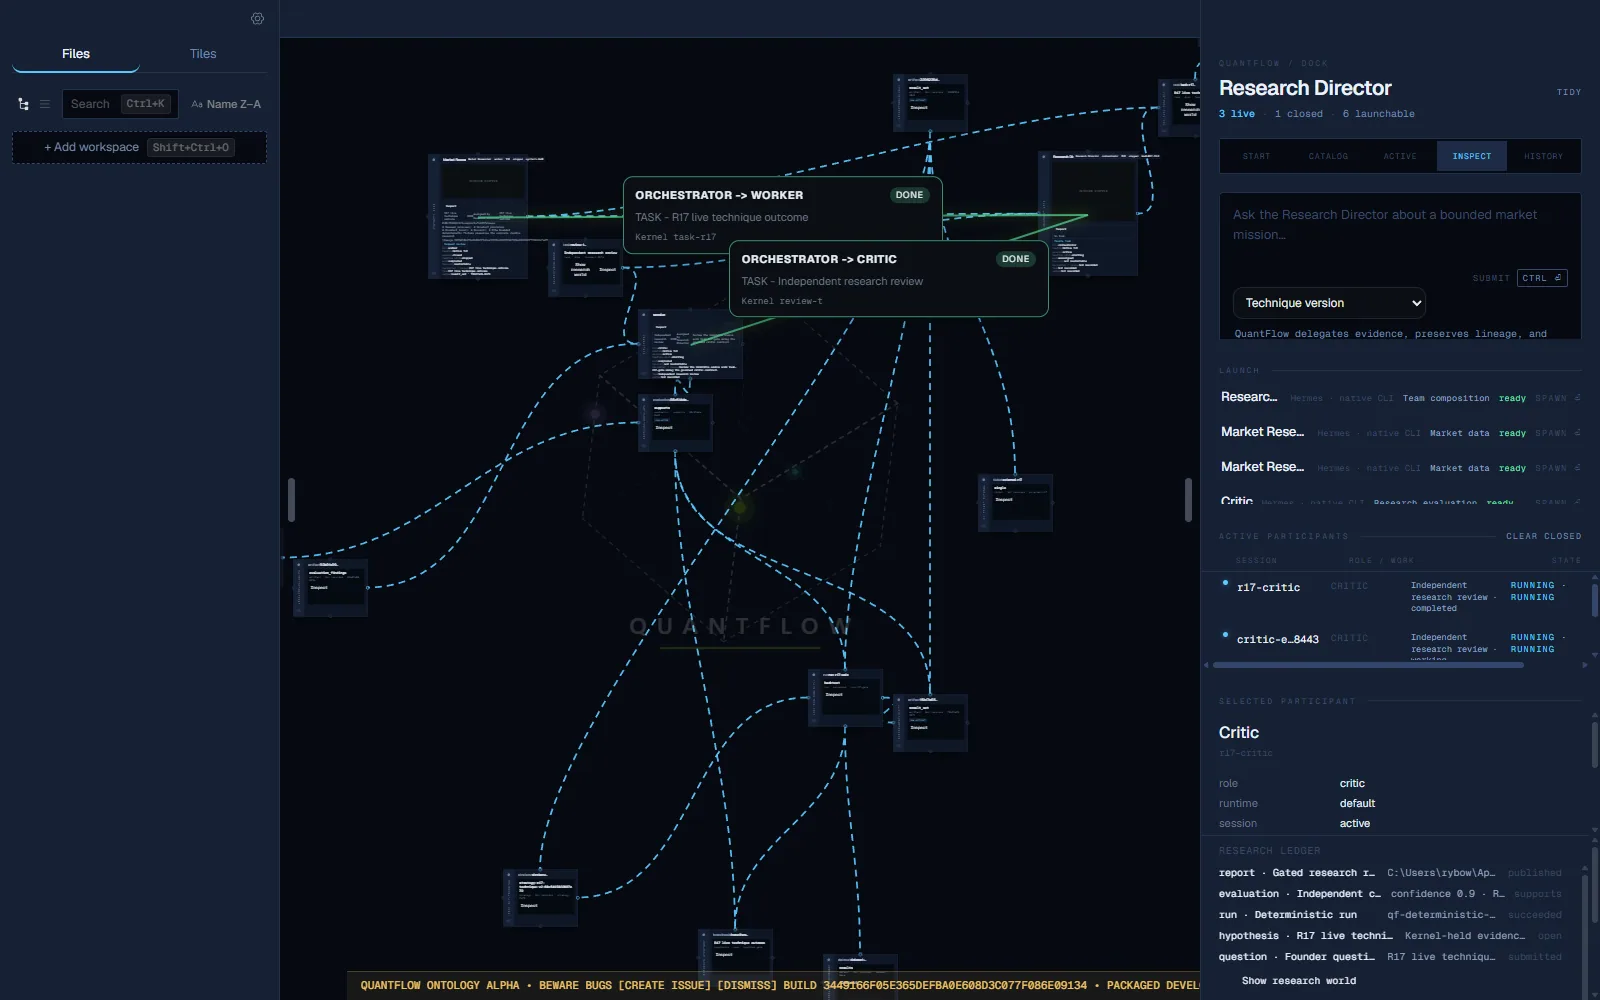
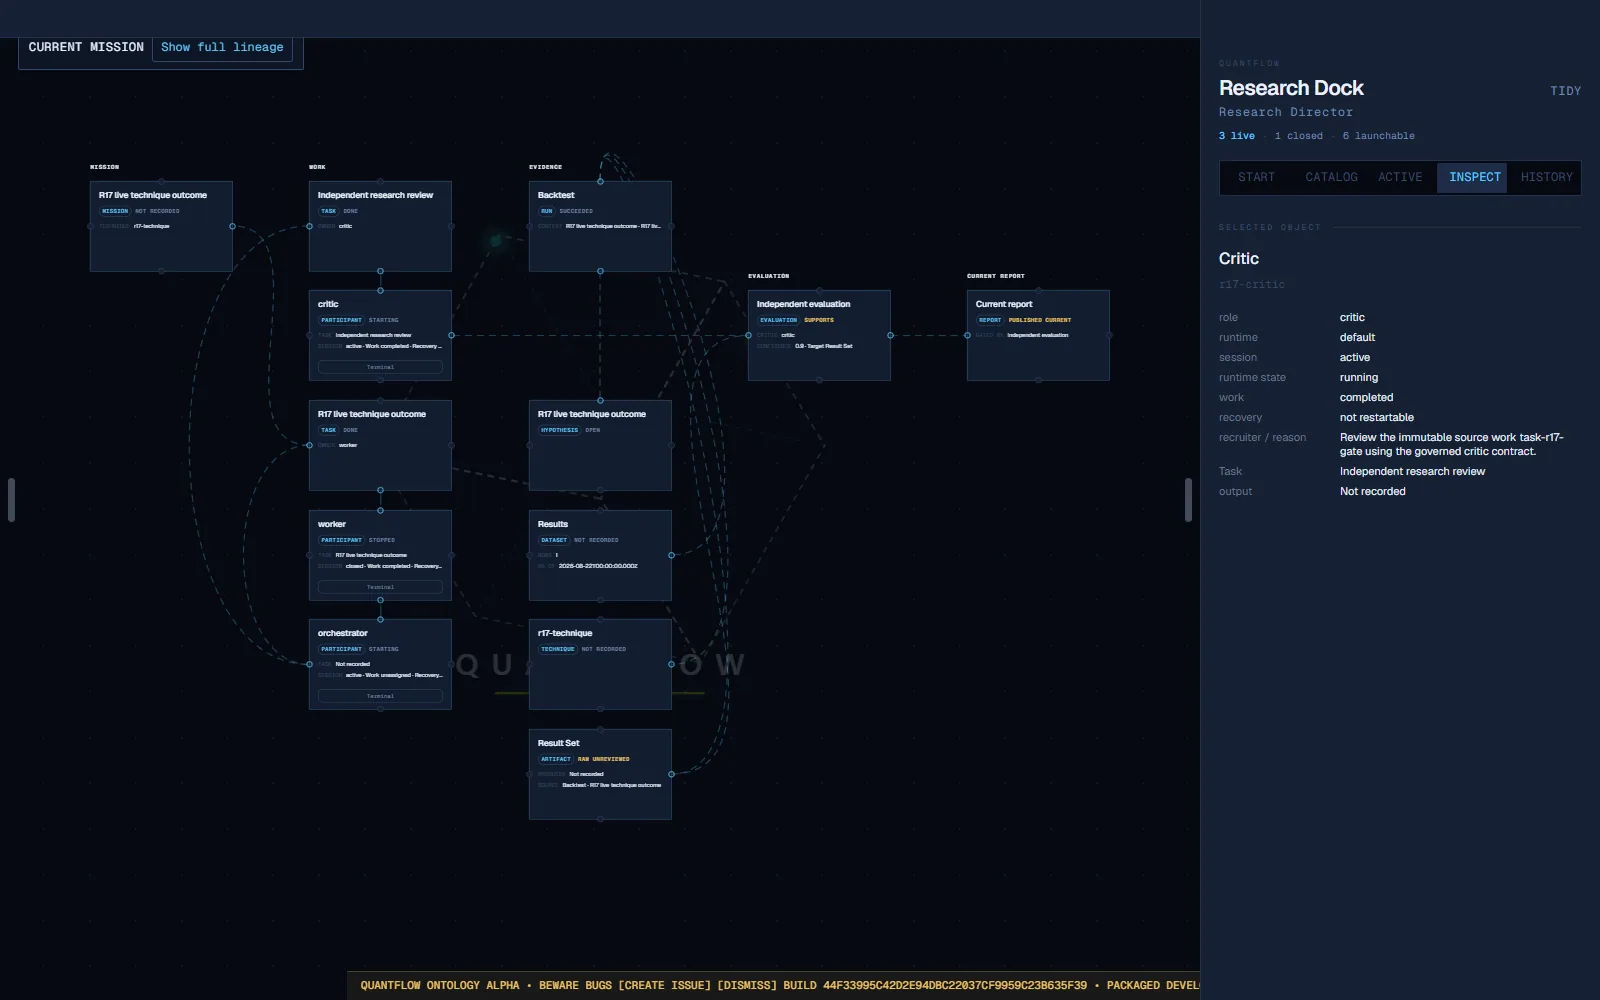
Record PRE-R18 consumer workflow evidence

diff --git a/docs/orders/evidence/pre-r18-coherence/BUILDER-EVIDENCE.md b/docs/orders/evidence/pre-r18-coherence/BUILDER-EVIDENCE.md
@@ -1,46 +1,125 @@
-# Pre-R18 Coherence — Round 3 Repair Builder Evidence
+# Pre-R18 Coherence — Final Consumer Workflow Builder Evidence
 
-## Scope and candidate identity
+## Candidate and authority
 
-This receipt records the evidence-only repair after the Round 3 verifier failure recorded in `VERIFICATION-ROUND-3.md`. The unchanged product candidate is `1a869c67f8d7c3f1bf6aec6247af2cd1ed3e87cf` on `wo-pre-r18-coherence`; the clean pre-repair receipt was `3449166f05e365defba0e608d3c077f086e09134`. No product component, ontology, layout, C01–C14 assertion or threshold, oracle, or R18 boundary was changed, and no R18 work was started. The only code change is the proof/capture sequencing in `qa/gates/pre-r18-coherence.ts`; the remaining changes are the recaptured evidence images and their manifest/receipt.
+- Branch: `wo-pre-r18-coherence`
+- Reader-approved authority/order SHA: `44f33995c42d2e94dbc22037cf9959c23b635f39`
+- Product/proof candidate: `67f9ba42affcb30fa8bc0961808ed10d8541ea6f`
+- Accepted R17 oracle remains `qa/oracles/r17-technique-outcome.json`: 16 objects and 20 exact links.
+- No Kernel schema/action/link, ontology type, inventory, Canvas engine, truth store, R18 capability, release, installer, or packaging surface changed.
 
-## Visual sequencing repair
+The candidate makes the existing current-Mission world readable without changing
+its truth. DEFAULT is a five-stage Mission → Work → Evidence → Evaluation →
+Current Report projection. LOCAL shows the exact bounded lineage and puts object
+or relationship detail in Dock INSPECT. FULL deliberately exposes all 16 objects
+and all 20 links. START and CATALOG share one launchable definition projection,
+while all five Dock modes retain one-pane paint isolation.
 
-The prior frames 12 and 13 retained the Critic participant inspector from frame 11. The repaired capture sequence now:
+## Changed files by defect
 
-1. Clicks the real START Dock tab after frame 11 and collapses any participant Canvas Inspect controls through their existing Inspect buttons. The receipt records the participant details as closed and records the Dock's actual computed paint state; it does not hide or restyle the Dock. In this product state the Dock remains visibly rendered, which is the state Ryan can reach through normal interaction.
-2. For frame 12, finds the exact result Artifact by its live `data-qf-world-type`/`data-qf-world-id`, uses the existing Canvas body mousedown/mouseup focus/raise path, pans and zooms through real Canvas wheel interactions, and opens that tile's own Inspect control.
-3. For frame 13, repeats the same real Canvas interaction for the exact Evaluation tile.
-4. Before each capture, proves actual DOM identity, nonzero computed paint rectangles, containment in the Canvas viewport, z-order and `elementsFromPoint` topmost status, visible `Collapse`/details state, and no visible participant-inspector overlap. The gate waits for the painted details state before `capturePage`.
-5. Reopens the saved world for frame 14 and captures the legible dense 16-object/20-link world after the evidence-only pan/zoom state.
+- Dock identity, START discovery, exact catalog projection, and pane isolation:
+  `index.html`, `dock.js`, `dock.test.ts`, `shell.css`.
+- Deterministic DEFAULT/LOCAL/FULL staging, human tile grammar, Dock INSPECT,
+  participant refresh, current-report authority, and restoration:
+  `research-world.js`, `research-world.test.ts`, `renderer.js`,
+  `task-composition.js`, `task-composition.test.ts`.
+- Subordinate, fit-aware cable routing and collision-aware labels:
+  `cable-overlay.js`, `shell.css`.
+- Real DOM/SVG C14 receipts and finite falsifier mutations:
+  `qa/gates/pre-r18-coherence.ts`.
+- Evidence-only files: the fourteen named WebP captures, this receipt, and
+  `SCREENSHOT-MANIFEST.md`.
 
-The live proof logged the following exact target identities and geometry:
+## Product and proof receipts
 
[1 lines of base64/hex data omitted]
-- Evaluation `86c514da-652d-4fd3-a67a-45e672106b41`: Canvas `280,0–1200,1000`; tile `595.34375,229.09375–884.650634765625,450.89569091796875`; `beforeZ=18`, `afterZ=3`, no overlap, `centerTopmost=true`, details open with `Collapse`.
-- Participant close proof recorded `dock.hidden=true`, computed `display=flex`, nonzero Dock rectangle `1201,669.59375–1600,834.796875`, and every participant Canvas details node `detailsHidden=true`. The Dock's visible paint is therefore measured and retained, not suppressed by proof code.
-
-Frames 11–14 were directly inspected after the final capture. Frame 11 shows the selected Critic participant. Frames 12 and 13 visibly show the enlarged named Artifact/Evaluation Canvas tiles with their own open `Collapse` state, while the Dock remains visible on START and does not dominate the Canvas details. Frame 14 visibly retains the dense populated world.
-
-## Verification receipt
-
-| Check | Result |
+| Command/check | Exit and result |
 |---|---|
-| Focused `task-composition.test.ts` + `research-world.test.ts` | 11 pass, 0 fail, 99 expectations |
-| `bunx tsc --noEmit` from `collab-electron` | PASS |
-| Capture-enabled live `bun qa/run.ts pre-r18-coherence` | PASS; 14/14 unique captures, 1600x1000, 982,030 bytes, 16 objects/20 links, clean roots |
-| Capture-disabled live `bun qa/run.ts pre-r18-coherence` | PASS; C01–C14, oracle 16/20, inspected 16/20, clean roots |
-| C01–C14 falsifiers | PASS as a red matrix: every named falsifier exited 1 with its expected `FALSIFY RED C##` marker |
-| Inherited `bun qa/run.ts research-world-visible` | PASS on retry; 13 oracle tiles / 15 cables, 10 pointer/Inspect/collapse checks, clean roots |
-| Required static/doc gates | PASS: repo-shape, lockfile-committed, kernel-sole-writer, no-canvas-domain-writes, kernel-sole-writer-app, doc-action-surface, one-skin, rung-ladder, doc-links |
-| `bun install --frozen-lockfile` | PASS |
-| Package-wide `bun test` | 493 pass, 42 fail, 8 errors across 535 tests; unrelated pre-existing/environmental failures, detailed below |
-| `git diff --check` | PASS |
+| `bun install --frozen-lockfile` in `collab-electron` | `0` |
+| Focused Dock/research-world/task-composition/cable-overlay tests | `0`; 26 pass, 0 fail, 186 expectations |
+| `bunx tsc --noEmit` | `0` |
+| Capture-disabled `bun qa/run.ts pre-r18-coherence` with capture/proof env unset | `0`; DEFAULT 13/13, LOCAL exact/dimmed, FULL 16/20, 16 object inspections, 20 link inspections, C01–C14 PASS, production boundaries PASS, clean shutdown |
+| Capture-enabled `bun qa/run.ts pre-r18-coherence` | `0`; 14/14 frames at 1600×1000, 665,388 bytes total, FULL 16/20, clean shutdown |
+| `repo-shape`, `lockfile-committed`, `kernel-sole-writer`, `no-canvas-domain-writes`, `kernel-sole-writer-app`, `doc-action-surface`, `one-skin`, `rung-ladder` | all final exits `0` |
+| `bun qa/run.ts doc-links` | `0`; 73 live documents and every pointer resolves |
+| `git diff --check` | `0` |
 
-## Package-wide note
+The live control emitted these production-boundary receipts:
+`renderer_submission=PASS boundary=qf.research.submit_question`,
+`preload_ipc=PASS boundary=qf:research-world:projection`,
+`main_handler=PASS boundary=read-only projection handler`, and
+`kernel_projection=PASS independent R17 literal oracle comparison`.
+Its geometry receipt measured a 1200×1000 Canvas, 16 tiles, and 20 links; its
+DEFAULT union ratios were width `0.8499922688802083` and height
+`0.6387013549804688`.
 
-The authorized package-wide test run completed `493 pass, 42 fail, 8 errors` across 535 tests. The failures are unrelated to this proof-only change and include Hermes launcher fixture expectations, packaged-resource fixture setup, Windows `ls`/Electron test stubs, missing `pty-sidecar.js`/tmux runtime, Bun nested-describe behavior, sidecar socket timing, DOM/image-extension test environment mismatches, and missing browser globals. The changed-surface suite, live PRE-R18 gates, inherited gate, static/doc gates, and typecheck are green. No unrelated package-wide failure was repaired.
+## Falsification receipt
 
-## Evidence and Atlas handoff
+With `QF_PRE_R18_COHERENCE_FALSIFY` set independently to `C01` through
+`C14`, every top-level invocation exited `1` with its own
+`FALSIFY RED C##` marker.
 
-The final screenshot hashes, sizes, object/link counts, uniqueness, and 1600x1000/600KB/25MB constraints are recorded in [SCREENSHOT-MANIFEST.md](./SCREENSHOT-MANIFEST.md). Atlas generation is intentionally performed only after this final proof/evidence ordering is committed; the final `generate --check`, ratchet, diff, evidence commit SHA, and separate Atlas commit SHA are reported in the handoff. The product candidate remains unchanged.
+The seven named C14 invocations used the same live journey and each exited `1`
+after restoring every mutation:
+
+- `C14/default-projection`: every applicable title, badge, status, and fact
+  slot plus mission-action, text-size, stage-membership, stage-order,
+  stage-bounds, tile-nonoverlap, primary-links, legacy-overlay,
+  connection-overlay, and every painted selected-cable obstruction turned RED.
+- `C14/local-lineage`: selected-subject, selected-tile, exact-local-set,
+  local tile/cable opacity, unrelated tile/cable opacity,
+  control-no-propagation, and inspect-match each turned RED.
+- `C14/full-lineage`: objects-16, links-20, object-opacity,
+  background-cable-opacity, object-select-inspect, link-select-inspect,
+  endpoint-tolerance, unrelated-tile-obstruction, and painted-height each
+  turned RED across the finite 16-object/20-link set.
+- `C14/dock-isolation`: one-pane, inactive-zero-rects, mode-tabs, dock-title,
+  director-role, mission-label, technique-label, team-count, team-roles,
+  browse-catalog, empty-next-action, and no-start-inventory-rows each turned RED.
+- `C14/model-complete`, `C14/back-to-world`, and
+  `C14/history-authority` each printed its exact RED receipt and exited `1`.
+
+No receipt is an unconditional string check: the matrices mutate the live
+DOM/SVG receipt object, prove only the named key red, restore it, and continue.
+
+## Superseded inherited gate
+
+`bun qa/run.ts research-world-visible` remains byte-unchanged as ordered. Its
+retry completed preflight timing and cleanup but exited `1`: it still requires
+all 15 legacy cables in the initial view and then ten inline tile Inspect
+controls. The Reader-approved amendment explicitly requires primary-only DEFAULT
+(12 of those 15 links in that older fixture) and moves full identity/triples to
+Dock INSPECT. Kernel/Main still returned exact 13/15 truth; no hidden,
+test-only cable or inline-Inspect compatibility surface was added. This is
+recorded as superseded acceptance, not a product or ontology failure.
+
+## Package-wide environmental note
+
+The authorized broad `bun test` completed with 498 pass, 43 fail, and 8 errors
+across 541 tests. The failures remain unrelated package/environment noise:
+Hermes/profile and packaged-resource fixtures, Windows/tmux/PTY/sidecar
+dependencies, Electron and DOM stubs, Bun nested-describe behavior, and shared
+image-extension fixtures. The 26 changed-surface tests, typecheck, production
+PRE-R18 live control, and static/boundary checks are green. No unrelated failure
+was repaired.
+
+## Evidence, visual inspection, and cleanup
+
+The exact capture hashes, sizes, counts, and state meanings are in
+[SCREENSHOT-MANIFEST.md](./SCREENSHOT-MANIFEST.md). Frames 01, 04, 07, 09, 12,
+13, and 14 were inspected at original resolution. They show a discoverable empty
+START, readable staged DEFAULT, real catalog roles/actions, hierarchical Artifact
+and Evaluation Dock inspection, and a subordinate-cable FULL overview with no
+floating inspector or accidental selection.
+
+Every live PRE-R18 run ended with `roots_remaining=0 leaked=[]` and
+`cleanup=clean`. The exact interrupted verifier root named in
+`VERIFICATION-FINAL.md`,
+`C:\Users\rybow\AppData\Local\Temp\qf-pre-r18-coherence-2lZN1J`, is
+already absent and has zero external owning processes. Pre-existing Atlas and
+installed acceptance processes were not touched.
+
+Atlas is generated only after this evidence ordering is committed. Its final
+generate/check/ratchet/build-base-diff exits and separate Atlas commit SHA are
+reported in the immutable handoff. The normal-app Computer Use check likewise
+runs only after all candidate bytes are committed; its
+`CONSUMER-READINESS` result is reported against that immutable final SHA.

diff --git a/docs/orders/evidence/pre-r18-coherence/SCREENSHOT-MANIFEST.md b/docs/orders/evidence/pre-r18-coherence/SCREENSHOT-MANIFEST.md
@@ -1,22 +1,39 @@
 # Pre-R18 Coherence Screenshot Manifest
 
-These are live current-candidate captures from the production Electron shell and renderer, using the bounded `QF_PRE_R18_CAPTURE=1` proof mode. The gate uses the real BrowserWindow `webContents.capturePage` path at 1600x1000, 100% scale, `devicePixelRatio=1`; the object/link counts below are the DOM counts at each capture checkpoint. Before frame 12, the real START Dock tab is clicked to close the participant session inspector; the Dock remains visibly rendered because that is the product state Ryan can reach. Frames 12 and 13 then use the exact Canvas tile body focus/raise interaction, real Canvas pan/zoom wheel interactions, and the tile's own Inspect control; the gate proves actual DOM identity, bounding rectangles, computed paint visibility, z-order/topmost center, and no participant-inspector overlap before capture. Frame 14 is recaptured from a fresh reopened world so the dense 16-object/20-link state remains legible. Every frame was visually inspected after capture.
+These fourteen captures come from product/proof candidate
+`67f9ba42affcb30fa8bc0961808ed10d8541ea6f` through the production Electron
+shell and renderer with the bounded `QF_PRE_R18_CAPTURE=1` evidence switch.
+Every image uses `webContents.capturePage` at 1600×1000, 100% scale, and
+`devicePixelRatio=1`. Object/link counts are measured from the live DOM at each
+checkpoint.
 
-| # | State | Viewport | Objects / links | File | Bytes | SHA-256 | Approved defect mapping |
+Frames 12 and 13 select the exact live Artifact/Evaluation tile, enter LOCAL, and
+show full identity and provenance only in Dock INSPECT. Frame 14 deliberately
+uses Show full lineage, paints all 16 oracle objects and 20 exact links without a
+selection or Canvas inspector, and retains a visible Back to world action.
+
+| # | State | Viewport | Objects / links | File | Bytes | SHA-256 | Acceptance mapping |
 |---:|---|---|---:|---|---:|---|---|
[28 lines of base64/hex data omitted]
 
-Total: `14 files`, `982,030 bytes`; all images are unique, exactly `1600x1000`, each is `<=600 KB`, and the evidence directory screenshot total is `<=25 MB`.
+Total: `14 files`, `665,388 bytes`. Every image is unique, exactly
+`1600×1000`, individually below 600 KB, and the full screenshot set is below
+25 MB.
+
+Original-resolution visual inspection covered 01, 04, 07, 09, 12, 13, and 14:
+no blank tile, false Mission identity, terminal overlap, contradictory historical
+current Report, clipped catalog role, Canvas inspector, or dominant cable hairball
+is present.
